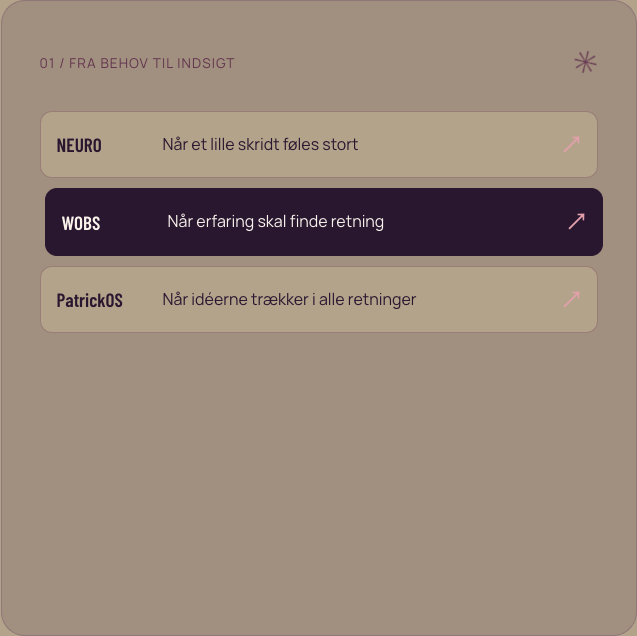
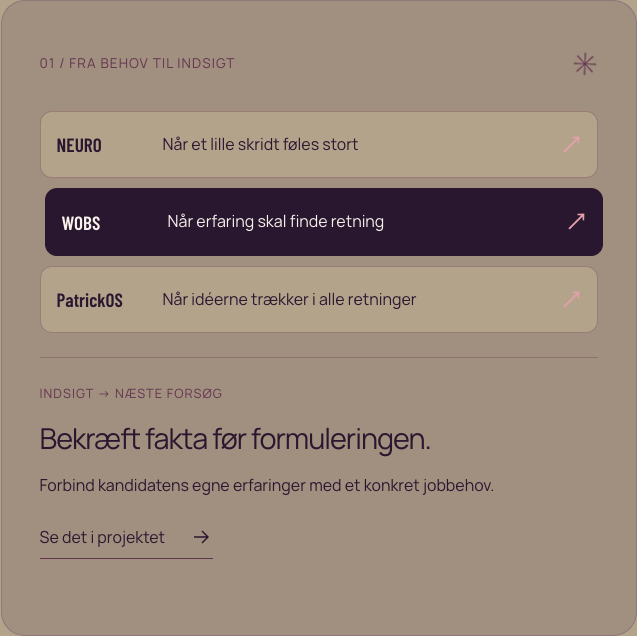
fix: keep discovery insights visible when motion is paused

diff --git a/app/kinetic.css b/app/kinetic.css
@@ -479,3 +479,6 @@ html{scroll-padding-top:100px;scrollbar-color:#d1808a #1d1020}
 
 /* A shared story-card scale; real mobile screens remain fully visible. */
 .storyboard-scenes .storyboard-visual{height:320px}.storyboard-scenes .storyboard-scene{min-height:430px}.storyboard-real{background:radial-gradient(ellipse at center,#63344eaa,#26132c)}
+
+/* Pausing motion must never hide a newly selected insight. */
+.v4[data-motion=paused] .discovery-result{animation:none!important;opacity:1;transform:none}

diff --git a/docs/design-history/2026-10-31/README.md b/docs/design-history/2026-10-31/README.md
@@ -14,3 +14,17 @@ Før-billederne er faktiske optagelser af den publicerede version15 den31. oktob
 Krav: ../../MUST-HAVE-2026-10-31.md. Ø-undersøgelse: ../../FONT-SPACING-2026-10-31.md. Browserkontrol: qa.json. Konto-usage kan ikke aflæses af agenten; seneste brugerangivelse var22% ved bestilling. Alt arbejde gemmes i projektet og på preview-branchen.
 
 NEURO community-billedet er taget fra den eksisterende testprototype på /prototype/#s2-1 (syntetiske eksempelopslag). NEURO/WOBS-logoer er kopieret fra egne projekters eksisterende assets. Øvrige inspirationer og tidligere29 screenshots bevares i ../2026-10-30/DESIGN-JOURNEY.md.
+
+## Visuel dokumentation
+
+Før: ![MacBook-intro før ændring](before-intro.png)
+
+Efter: ![Ny projektgrid-intro](after-intro-grid.png)
+
+![Naturlig ordafstand efter Ø-rettelsen](after-word-spacing.png)
+
+![Faktiske NEURO-skærme i ens kort](after-neuro-storyboard.png)
+
+![Interaktiv behovsundersøgelse](after-discover-detail.png)
+
+Dagens dokumentation indeholder 15 faktiske screenshots med SHA-256 i capture-manifest.json. Sidste pakkede kilde: ec773c822258f839c0909c90dca0311494d6b5eb, Sites version16. Pause-kanttilstanden er også testet i denne pakke.

diff --git a/docs/MUST-HAVE-2026-10-31.md b/docs/MUST-HAVE-2026-10-31.md
@@ -35,3 +35,5 @@ Arbejdskopi: /private/tmp/project-journey-publish-20261030. GitHub: PebeDauda/pa
 - Browserkontrol bestået: 1440px desktop, 390px touch, DA/EN, introens grid→hel hjerne→side, replay, hover-/klik-/tastaturmenu, Escape, reduceret bevægelse, ordrotation, Opdag-valg, proces-tastatur, billeder og ingen sidefejl. Der er endnu ikke indhentet Patricks visuelle godkendelse; afkrydsninger angiver implementering, ikke en påstået designgodkendelse.
 - Logoer: originale NEURO- og WOBS-assets læst fra deres egne projektmapper; PatrickOS fra eksisterende Journey-asset. Portfolio har en typografisk genvej, da intet selvstændigt logo blev fundet. Kildeprojekterne er ikke ændret.
 - Typekontrol viser de samme 8 eksisterende projektfejl i Sanity-layout/Cloudflare/studio. Ingen fejl i de ændrede komponenter. Build, artifact-kontrol og HTML-smoke består. Se docs/design-history/2026-10-31/qa.json og FONT-SPACING-2026-10-31.md.
+
+- Visuel kontrol fandt og rettede en ekstra pause-kanttilstand: et nyt Opdag-resultat skal altid være synligt, også når global bevægelse er pauset.
